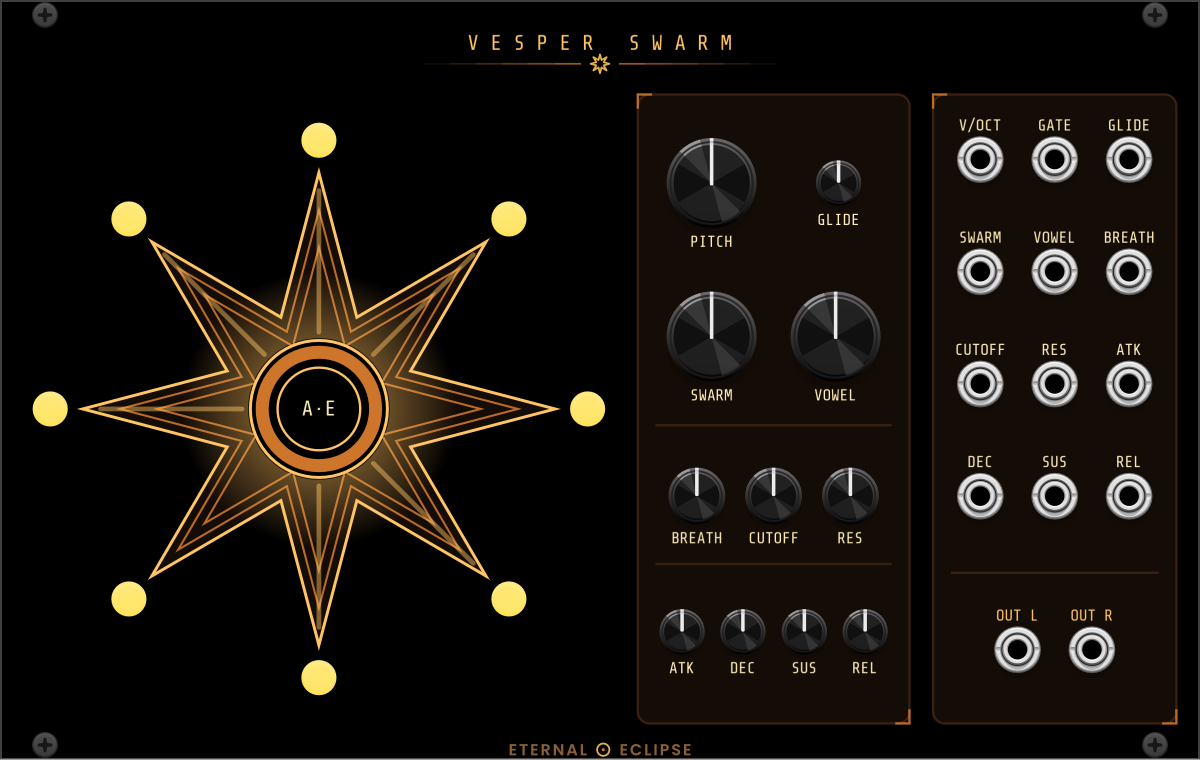
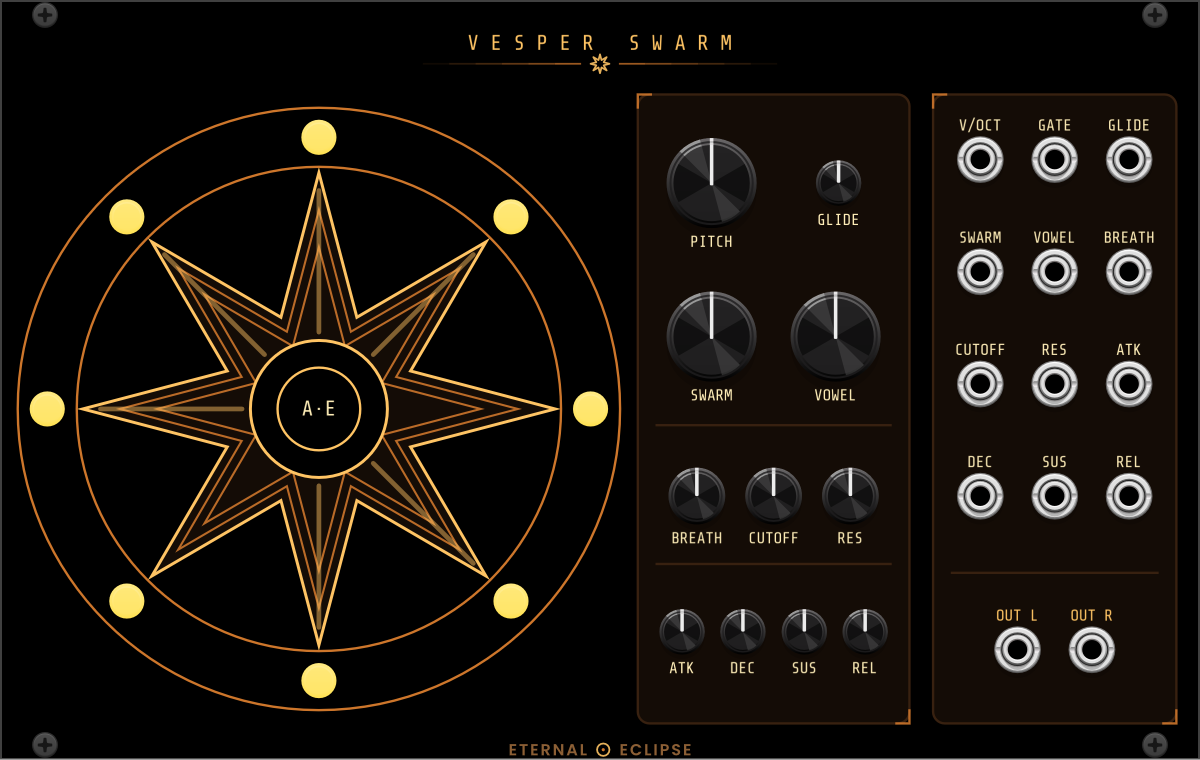
Vesper Swarm: singers' ring, no glow, black bullseye band (OMN-106)
The display no longer paints a glow gradient around the heart; only the
rays along the singing points remain. The copper band between the two
bullseye rings is gone, leaving black around the vowel. Two line circles
now stand outside the star, and the eight singers' buttons sit in the ring
between them.

diff --git a/src/VesperSwarm/VesperSwarm.cpp b/src/VesperSwarm/VesperSwarm.cpp
@@ -69,7 +69,6 @@ struct VesperSwarm : Module {
 	std::atomic<int> law{vesper::LAW_EQUAL};
 
 	// audio -> UI
-	std::atomic<float> dispEnv{0.f};
 	std::atomic<float> dispVowel{0.f};
 	std::atomic<uint8_t> dispMask{0xFF};
 	std::atomic<float> dispLevel[VOICES];
@@ -193,7 +192,6 @@ struct VesperSwarm : Module {
 		choir.setBlock(prm, sr);
 
 		float env = choir.env.level;
-		dispEnv.store(env, std::memory_order_relaxed);
 		dispVowel.store(prm.vowel, std::memory_order_relaxed);
 		dispMask.store(mask, std::memory_order_relaxed);
 		for (int i = 0; i < VOICES; i++) {
@@ -218,7 +216,7 @@ struct VesperSwarm : Module {
 // toggles sit just beyond its points and the display breathes in its heart.
 static constexpr float STAR_X = 4.f, STAR_Y = 16.f, STAR_W = 100.f, STAR_H = 106.5f;
 static constexpr float STAR_CX = 54.f, STAR_CY = 69.25f, STAR_R = 40.f;
-static constexpr float BUTTON_R = 45.5f;
+static constexpr float BUTTON_R = 46.f; // in the ring between the SVG's circles at 41 and 51
 
 static Vec starPoint(int i, float r) {
 	float a = -0.5f * (float)M_PI + (float)i * 0.25f * (float)M_PI;
@@ -233,13 +231,12 @@ struct StarDisplay : TransparentWidget {
 	void drawLayer(const DrawArgs& args, int layer) override {
 		if (layer != 1)
 			return;
-		float env = 0.6f, vowel = 0.5f;
+		float vowel = 0.5f;
 		uint8_t mask = 0xDB; // preview: singers 3 and 6 silent
 		float level[VOICES];
 		for (int i = 0; i < VOICES; i++)
 			level[i] = 0.55f;
 		if (module) {
-			env = module->dispEnv.load(std::memory_order_relaxed);
 			vowel = module->dispVowel.load(std::memory_order_relaxed);
 			mask = module->dispMask.load(std::memory_order_relaxed);
 			for (int i = 0; i < VOICES; i++)
@@ -264,19 +261,6 @@ struct StarDisplay : TransparentWidget {
 			nvgLineTo(args.vg, p1.x, p1.y);
 			nvgStroke(args.vg);
 		}
-
-		// Glow around the bullseye, breathing with the envelope
-		float inner = mm2px(12.f);
-		float outer = mm2px(12.f + 3.f + 14.f * env);
-		float alpha = 0.08f + 0.45f * env;
-		NVGpaint paint = nvgRadialGradient(args.vg, c.x, c.y, inner, outer,
-			nvgRGBAf(1.f, 0.77f, 0.39f, alpha), nvgRGBAf(1.f, 0.77f, 0.39f, 0.f));
-		nvgBeginPath(args.vg);
-		nvgCircle(args.vg, c.x, c.y, outer);
-		nvgCircle(args.vg, c.x, c.y, inner);
-		nvgPathWinding(args.vg, NVG_HOLE);
-		nvgFillPaint(args.vg, paint);
-		nvgFill(args.vg);
 
 		// The vowel being sung
 		std::shared_ptr<Font> font = APP->window->loadFont(asset::system("res/fonts/ShareTechMono-Regular.ttf"));

diff --git a/tools/gen_vesper_panel.py b/tools/gen_vesper_panel.py
@@ -26,6 +26,7 @@ BAY_X, BAY_W = 158.0, 41.2
 STAR_CX, STAR_CY, STAR_R = 54.0, 69.25, 40.0
 STAR_INNER = 0.42 * STAR_R      # radius of the notches between points
 STAR_INSETS = (1.6, 3.2)        # mm, the nested outlines
+RING_IN, RING_OUT = 41.0, 51.0  # the singers' ring: buttons at 46 sit between
 
 
 def f(x):
@@ -113,8 +114,10 @@ svg.append(f'  <path d="{path_of(star_polygon())}" fill="#140c06" stroke="#ffc46
 for d in STAR_INSETS:
     svg.append(f'  <path d="{path_of(star_polygon(d))}" fill="none" stroke="#cd762b" stroke-width="0.35" stroke-opacity="0.9" stroke-linejoin="miter" stroke-miterlimit="12"/>\n')
 svg.append(f'  <circle cx="{f(STAR_CX)}" cy="{f(STAR_CY)}" r="11.6" fill="#000000" stroke="#ffc464" stroke-width="0.5"/>\n')
-svg.append(f'  <circle cx="{f(STAR_CX)}" cy="{f(STAR_CY)}" r="9.6" fill="none" stroke="#cd762b" stroke-width="2.2"/>\n')
 svg.append(f'  <circle cx="{f(STAR_CX)}" cy="{f(STAR_CY)}" r="7.0" fill="none" stroke="#ffc464" stroke-width="0.4"/>\n')
+svg.append("  <!-- The singers' ring, just outside the points -->\n")
+svg.append(f'  <circle cx="{f(STAR_CX)}" cy="{f(STAR_CY)}" r="{f(RING_IN)}" fill="none" stroke="#cd762b" stroke-width="0.4"/>\n')
+svg.append(f'  <circle cx="{f(STAR_CX)}" cy="{f(STAR_CY)}" r="{f(RING_OUT)}" fill="none" stroke="#cd762b" stroke-width="0.4"/>\n')
 
 svg.append("\n  <!-- Controls frame: pitch, swarm, vowel, breath, filter, envelope -->\n")
 svg.append(frame(CTRL_X, CTRL_W))
